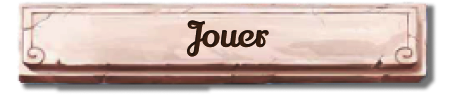
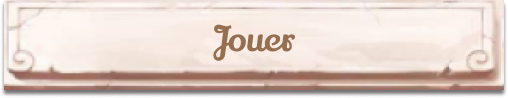
fix(IHM) : modification affichage responsif

diff --git a/src/Vue/PanelOptions.java b/src/Vue/PanelOptions.java
@@ -45,10 +45,10 @@ class PanelOptions extends JPanel {
         JPanel boutons_principaux_panel = new JPanel();
 
         contenu.setAlignmentX(CENTER_ALIGNMENT);
-        contenu.setMaximumSize(new Dimension(largeur * 2 / 3, 500));
+        contenu.setMaximumSize(new Dimension(largeur * 2/3, hauteur * 2/3));
 
         boutons_principaux_panel.setOpaque(false);
-        boutons_principaux_panel.setMaximumSize(new Dimension(largeur, hauteur / 10));
+        boutons_principaux_panel.setMaximumSize(new Dimension(largeur, hauteur * 1/10));
         boutons_principaux_panel.setBorder(null);
 
         /* Boutons*/
@@ -56,21 +56,21 @@ class PanelOptions extends JPanel {
         ButtonGroup boutons_IA = new ButtonGroup();
         ButtonGroup boutons_IA2 = new ButtonGroup();
 
-        JRadioButton joueur_joueur = new BoutonRadio("src/Ressources/bouton/joueur_contre_joueur.png", "src/Ressources/bouton/active.png", largeur / 6, largeur / 30, adversaires_boutons);
-        JRadioButton joueur_ia = new BoutonRadio("src/Ressources/bouton/joueur_contre_ia.png", "src/Ressources/bouton/active.png", largeur / 6, largeur / 30, adversaires_boutons);
-        JRadioButton ia_ia = new BoutonRadio("src/Ressources/bouton/ia_contre_ia.png", "src/Ressources/bouton/active.png", largeur / 6, largeur / 30, adversaires_boutons);
+        JRadioButton joueur_joueur = new BoutonRadio("src/Ressources/bouton/joueur_contre_joueur.png", "src/Ressources/bouton/active.png", largeur * 1/6, largeur * 1/30, adversaires_boutons);
+        JRadioButton joueur_ia = new BoutonRadio("src/Ressources/bouton/joueur_contre_ia.png", "src/Ressources/bouton/active.png", largeur * 1/6, largeur * 1/30, adversaires_boutons);
+        JRadioButton ia_ia = new BoutonRadio("src/Ressources/bouton/ia_contre_ia.png", "src/Ressources/bouton/active.png", largeur * 1/6, largeur * 1/30, adversaires_boutons);
 
-        JRadioButton facile = new BoutonRadio("src/Ressources/bouton/facile.png", "src/Ressources/bouton/active.png", largeur / 6, largeur / 30, boutons_IA);
-        JRadioButton normale = new BoutonRadio("src/Ressources/bouton/normale.png", "src/Ressources/bouton/active.png", largeur / 6, largeur / 30, boutons_IA);
-        JRadioButton difficile = new BoutonRadio("src/Ressources/bouton/difficile.png", "src/Ressources/bouton/active.png", largeur / 6, largeur / 30, boutons_IA);
+        JRadioButton facile = new BoutonRadio("src/Ressources/bouton/facile.png", "src/Ressources/bouton/active.png", largeur * 1/6, largeur * 1/30, boutons_IA);
+        JRadioButton normale = new BoutonRadio("src/Ressources/bouton/normale.png", "src/Ressources/bouton/active.png", largeur * 1/6, largeur * 1/30, boutons_IA);
+        JRadioButton difficile = new BoutonRadio("src/Ressources/bouton/difficile.png", "src/Ressources/bouton/active.png", largeur * 1/6, largeur * 1/30, boutons_IA);
 
-        JRadioButton facile2 = new BoutonRadio("src/Ressources/bouton/facile.png", "src/Ressources/bouton/active.png", largeur / 6, largeur / 30, boutons_IA2);
-        JRadioButton normale2 = new BoutonRadio("src/Ressources/bouton/normale.png", "src/Ressources/bouton/active.png", largeur / 6, largeur / 30, boutons_IA2);
-        JRadioButton difficile2 = new BoutonRadio("src/Ressources/bouton/difficile.png", "src/Ressources/bouton/active.png", largeur / 6, largeur / 30, boutons_IA2);
+        JRadioButton facile2 = new BoutonRadio("src/Ressources/bouton/facile.png", "src/Ressources/bouton/active.png", largeur * 1/6, largeur * 1/30, boutons_IA2);
+        JRadioButton normale2 = new BoutonRadio("src/Ressources/bouton/normale.png", "src/Ressources/bouton/active.png", largeur * 1/6, largeur * 1/30, boutons_IA2);
+        JRadioButton difficile2 = new BoutonRadio("src/Ressources/bouton/difficile.png", "src/Ressources/bouton/active.png", largeur * 1/6, largeur * 1/30, boutons_IA2);
 
-        bSon = new Bouton("src/Ressources/bouton/desactive.png", "src/Ressources/bouton/active.png", largeur / 6, largeur / 30);
-        bCommencer = new Bouton("src/Ressources/bouton/commencer_la_partie.png", "src/Ressources/bouton/commencer_la_partie.png", largeur / 4, largeur / 20);
-        bRetour = new Bouton("src/Ressources/bouton/retour.png", "src/Ressources/bouton/retour.png", largeur / 4, largeur / 20);
+        bSon = new Bouton("src/Ressources/bouton/desactive.png", "src/Ressources/bouton/active.png", largeur * 1/6, largeur * 1/30);
+        bCommencer = new Bouton("src/Ressources/bouton/commencer_la_partie.png", "src/Ressources/bouton/commencer_la_partie.png", largeur * 1/4, largeur * 1/20);
+        bRetour = new Bouton("src/Ressources/bouton/retour.png", "src/Ressources/bouton/retour.png", largeur * 1/4, largeur * 1/20);
 
 
         /* Evenements */
@@ -124,19 +124,19 @@ class PanelOptions extends JPanel {
         contenu.add(son_texte);
         contenu.add(Box.createRigidArea(new Dimension(largeur, 0)));
         contenu.add(son_panel);
-        contenu.add(Box.createRigidArea(new Dimension(largeur, hauteur / 30)));
+        contenu.add(Box.createRigidArea(new Dimension(largeur, hauteur * 1/30)));
         contenu.add(versus_texte);
         contenu.add(Box.createRigidArea(new Dimension(largeur, 0)));
         contenu.add(versus_panel);
-        contenu.add(Box.createRigidArea(new Dimension(largeur, hauteur / 30)));
+        contenu.add(Box.createRigidArea(new Dimension(largeur, hauteur * 1/30)));
         contenu.add(IA_texte);
         contenu.add(Box.createRigidArea(new Dimension(largeur, 0)));
         contenu.add(IA_panel);
-        contenu.add(Box.createRigidArea(new Dimension(largeur, hauteur / 30)));
+        contenu.add(Box.createRigidArea(new Dimension(largeur, hauteur * 1/30)));
         contenu.add(IA2_texte);
         contenu.add(Box.createRigidArea(new Dimension(largeur, 0)));
         contenu.add(IA2_panel);
-        contenu.add(Box.createRigidArea(new Dimension(largeur, hauteur / 30)));
+        contenu.add(Box.createRigidArea(new Dimension(largeur, hauteur * 1/30)));
 
         boutons_principaux_panel.add(bRetour);
         boutons_principaux_panel.add(bCommencer);
@@ -151,13 +151,13 @@ class PanelOptions extends JPanel {
         IA2_texte.setVisible(false);
 
         /* Adding */
-        add(Box.createRigidArea(new Dimension(largeur, hauteur / 15)));
+        add(Box.createRigidArea(new Dimension(largeur, hauteur * 1/15)));
         add(titre);
-        add(Box.createRigidArea(new Dimension(largeur, hauteur / 30)));
+        add(Box.createRigidArea(new Dimension(largeur, hauteur * 1/30)));
         add(contenu);
-        add(Box.createRigidArea(new Dimension(largeur, hauteur / 30)));
+        add(Box.createRigidArea(new Dimension(largeur, hauteur * 1/30)));
         add(boutons_principaux_panel);
-        add(Box.createRigidArea(new Dimension(largeur, hauteur / 30)));
+        add(Box.createRigidArea(new Dimension(largeur, hauteur * 1/30)));
 
     }
 
@@ -189,22 +189,22 @@ class PanelOptions extends JPanel {
     public Dimension conserverRatio(Dimension imgSize, Dimension boundary) {
         int largeur_original = imgSize.width;
         int hauteur_original = imgSize.height;
-        int bound_width = boundary.width;
-        int bound_height = boundary.height;
+        int largeur_max = boundary.width;
+        int hauteur_max = boundary.height;
         int nouvelle_largeur = largeur_original;
         int nouvelle_hauteur = hauteur_original;
 
         // Vérifie si on doit redimensionner la largeur
-        if (largeur_original > bound_width) {
+        if (largeur_original > largeur_max) {
             // redimensionne la largeur
-            nouvelle_largeur = bound_width;
+            nouvelle_largeur = largeur_max;
             // redimensionne la hauteur pour preserver le ratio
             nouvelle_hauteur = (nouvelle_largeur * hauteur_original) / largeur_original;
         }
         // Verifie si on doit redimensionner la hauteur
-        if (nouvelle_hauteur > bound_height) {
+        if (nouvelle_hauteur > hauteur_max) {
             // redimensionne la hauteur
-            nouvelle_hauteur = bound_height;
+            nouvelle_hauteur = hauteur_max;
             // redimensionne la largeur pour preserver le ratio
             nouvelle_largeur = (nouvelle_hauteur * largeur_original) / hauteur_original;
         }

diff --git a/src/Vue/PanelMenu.java b/src/Vue/PanelMenu.java
@@ -8,6 +8,11 @@ import java.awt.event.ActionEvent;
 import java.awt.image.BufferedImage;
 import java.io.File;
 
+/**
+ *
+ * @TODO : Changer le logo titre
+ */
+
 class PanelMenu extends JPanel {
 
     private Bouton bJouer, bTutoriel, bRegles, bQuitter;
@@ -44,17 +49,16 @@ class PanelMenu extends JPanel {
         bQuitter.addActionListener(this::actionBoutonQuitter);
 
         /* Adding */
-        add(Box.createRigidArea(new Dimension(largeur, hauteur/9)));
+        add(Box.createRigidArea(new Dimension(largeur, hauteur * 1/9)));
         add(titre);
-        add(Box.createRigidArea(new Dimension(largeur, hauteur/9)));
+        add(Box.createRigidArea(new Dimension(largeur, hauteur * 1/9)));
         add(bJouer);
-        add(Box.createRigidArea(new Dimension(largeur, hauteur/45)));
+        add(Box.createRigidArea(new Dimension(largeur, hauteur * 1/45)));
         add(bTutoriel);
-        add(Box.createRigidArea(new Dimension(largeur, hauteur/45)));
+        add(Box.createRigidArea(new Dimension(largeur, hauteur * 1/45)));
         add(bRegles);
-        add(Box.createRigidArea(new Dimension(largeur, hauteur/45)));
+        add(Box.createRigidArea(new Dimension(largeur, hauteur * 1/45)));
         add(bQuitter);
-        add(Box.createRigidArea(new Dimension(largeur, 20)));
 
         setBackground(new Color(47, 112, 162));
     }
@@ -88,7 +92,7 @@ class PanelMenu extends JPanel {
         try {
             BufferedImage img = ImageIO.read(new File("src/Ressources/artwork/base.png"));
             Dimension img_dim = new Dimension(img.getWidth(), img.getHeight());
-            Dimension taille_max = new Dimension((int) (getWidth() - getWidth() * 0.25), (int) (getHeight() - getHeight() * 0.25));
+            Dimension taille_max = new Dimension((int) (getWidth() * 0.8), (int) (getHeight() * 0.8));
             Dimension taille_redimensionnee = conserverRatio(img_dim, taille_max);
             g.drawImage(
                     img,
@@ -117,22 +121,22 @@ class PanelMenu extends JPanel {
     public Dimension conserverRatio(Dimension imgSize, Dimension boundary) {
         int largeur_original = imgSize.width;
         int hauteur_original = imgSize.height;
-        int bound_width = boundary.width;
-        int bound_height = boundary.height;
+        int largeur_max = boundary.width;
+        int hauteur_max = boundary.height;
         int nouvelle_largeur = largeur_original;
         int nouvelle_hauteur = hauteur_original;
 
         // first check if we need to scale width
-        if (largeur_original > bound_width) {
+        if (largeur_original > largeur_max) {
             //scale width to fit
-            nouvelle_largeur = bound_width;
+            nouvelle_largeur = largeur_max;
             //scale height to maintain aspect ratio
             nouvelle_hauteur = (nouvelle_largeur * hauteur_original) / largeur_original;
         }
         // then check if we need to scale even with the new height
-        if (nouvelle_hauteur > bound_height) {
+        if (nouvelle_hauteur > hauteur_max) {
             //scale height to fit instead
-            nouvelle_hauteur = bound_height;
+            nouvelle_hauteur = hauteur_max;
             //scale width to maintain aspect ratio
             nouvelle_largeur = (nouvelle_hauteur * largeur_original) / hauteur_original;
         }

diff --git a/src/Vue/Bouton.java b/src/Vue/Bouton.java
@@ -25,7 +25,7 @@ public class Bouton extends JButton {
         /* Ajout de l'image par dessus le bouton*/
         ImageIcon iconButton = ScaleImage(image, hauteur, largeur);
         setIcon(iconButton);
-        ImageIcon iconButtonHover = ScaleImage(imageHover, hauteur+5, largeur+5);
+        ImageIcon iconButtonHover = ScaleImage(imageHover, hauteur, largeur);
         setRolloverIcon(iconButtonHover);
     }
 
